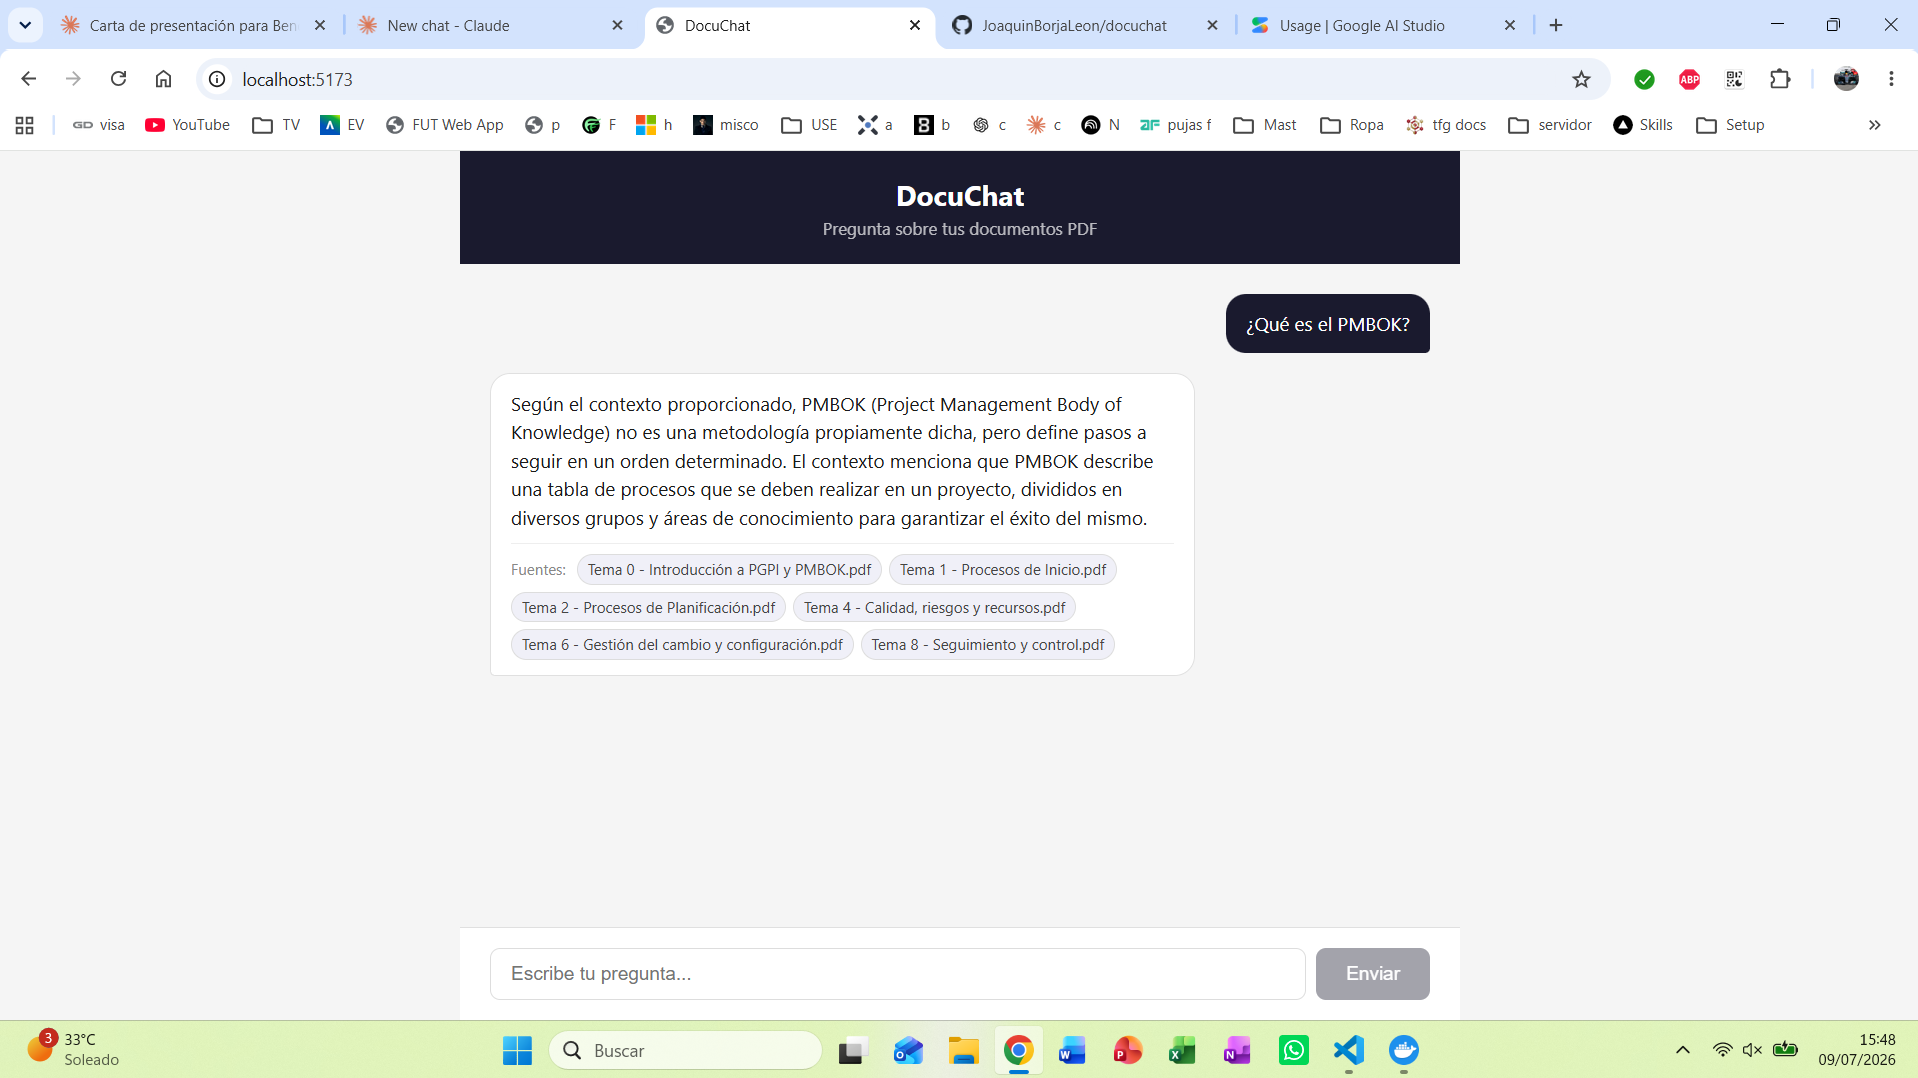
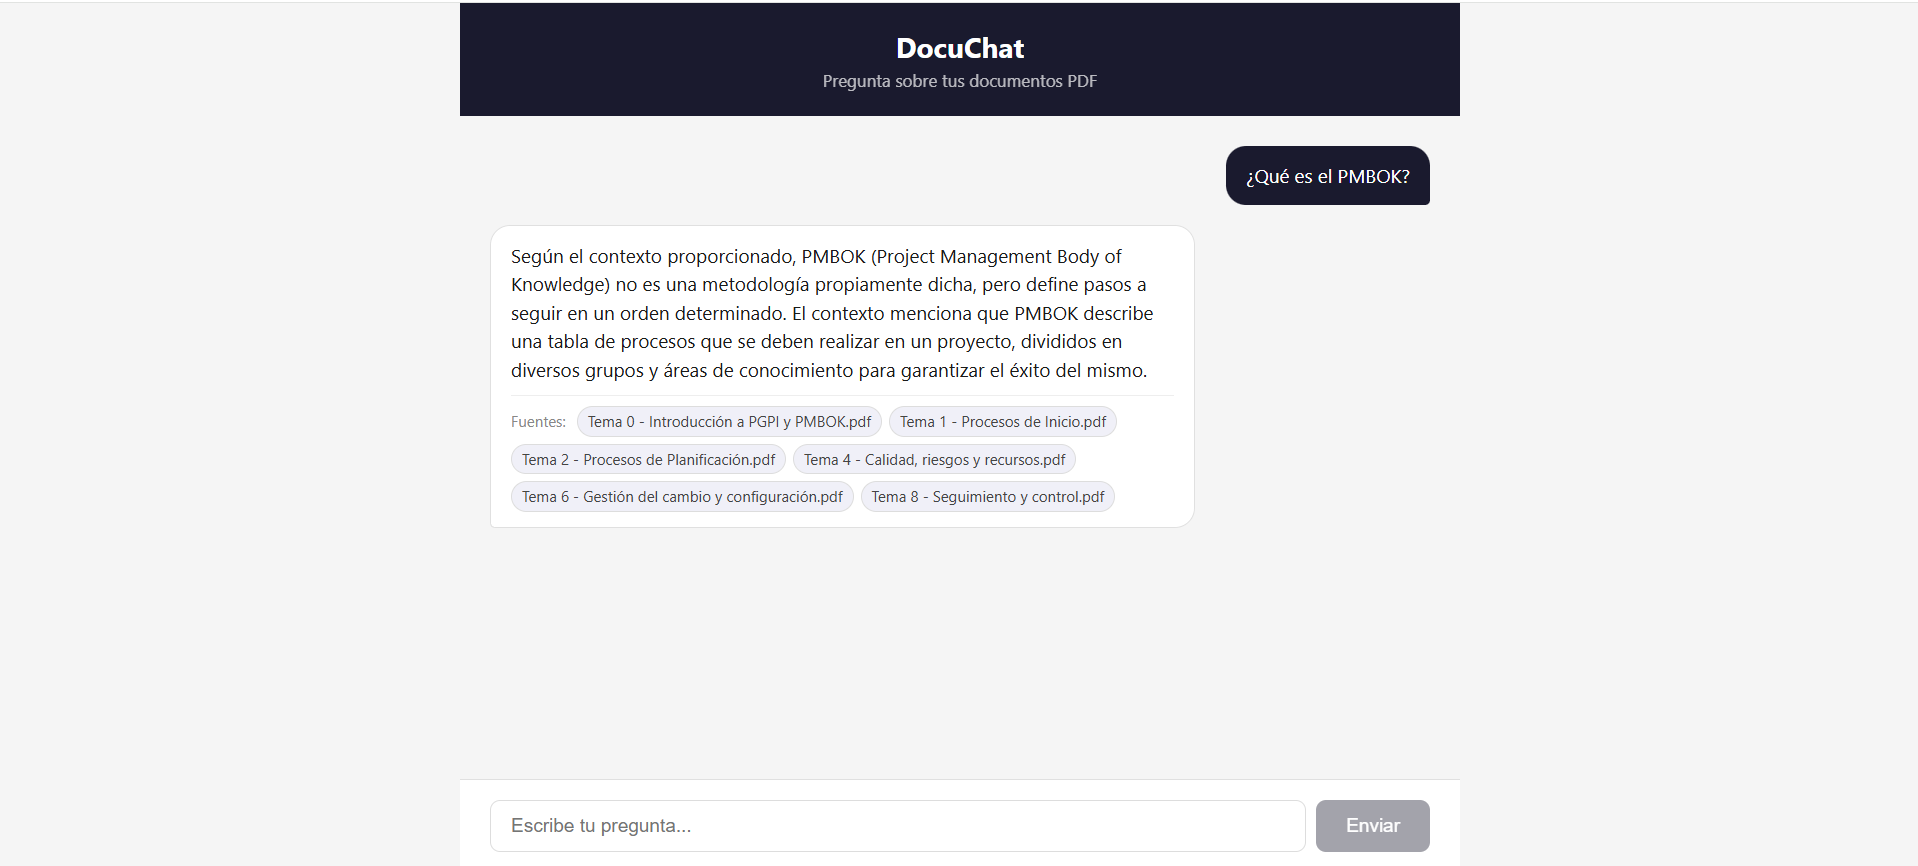
Add Docker Compose orchestration (db + api + frontend) with configurable CORS

Changed region(s): [[0.0, 0.0, 1.0, 0.343], [0.2461, 0.2806, 0.6152, 0.6236], [0.0, 0.873, 1.0, 1.0]]

diff --git a/src/api.py b/src/api.py
@@ -1,8 +1,15 @@
+import os
+
+from dotenv import load_dotenv
 from fastapi import FastAPI
 from fastapi.middleware.cors import CORSMiddleware
 from pydantic import BaseModel, Field
 
 from src.rag import retrieve, generate
+
+load_dotenv()
+
+CORS_ORIGINS = os.getenv("CORS_ORIGINS", "http://localhost:5173,http://localhost:3000").split(",")
 
 app = FastAPI(
     title="DocuChat",
@@ -11,7 +18,7 @@ app = FastAPI(
 
 app.add_middleware(
     CORSMiddleware,
-    allow_origins=["http://localhost:5173"],
+    allow_origins=CORS_ORIGINS,
     allow_methods=["*"],
     allow_headers=["*"],
 )